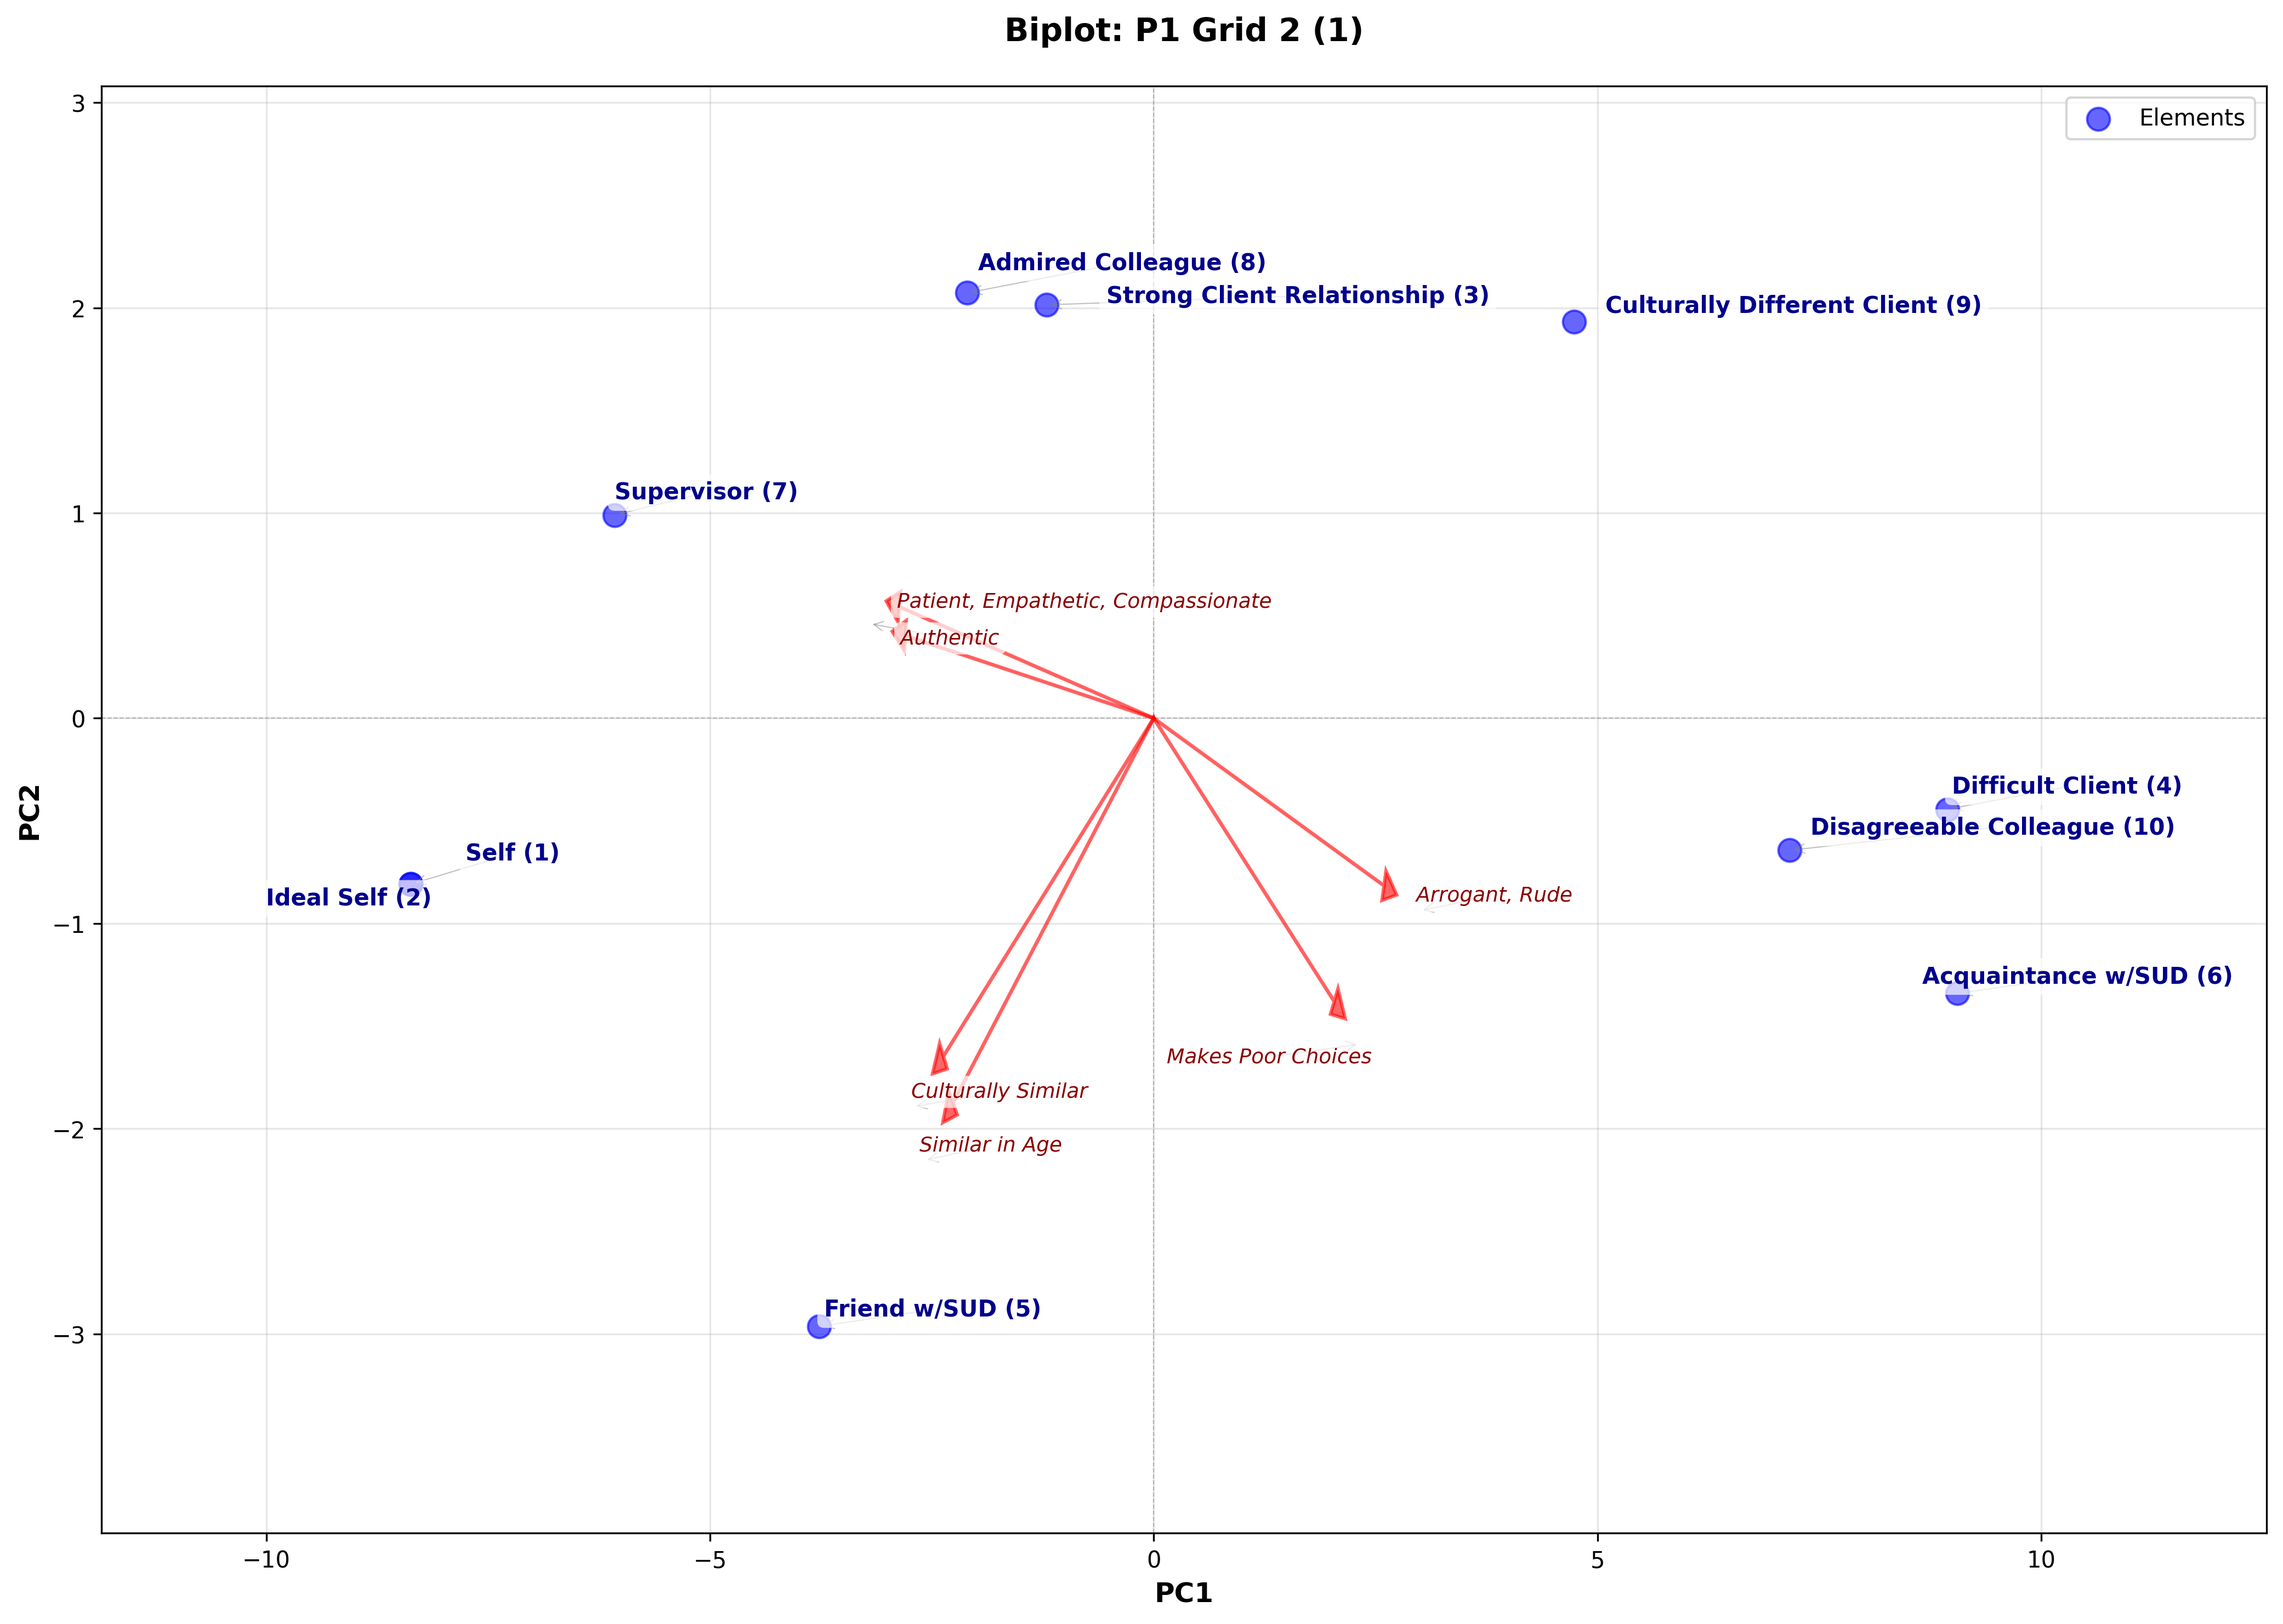
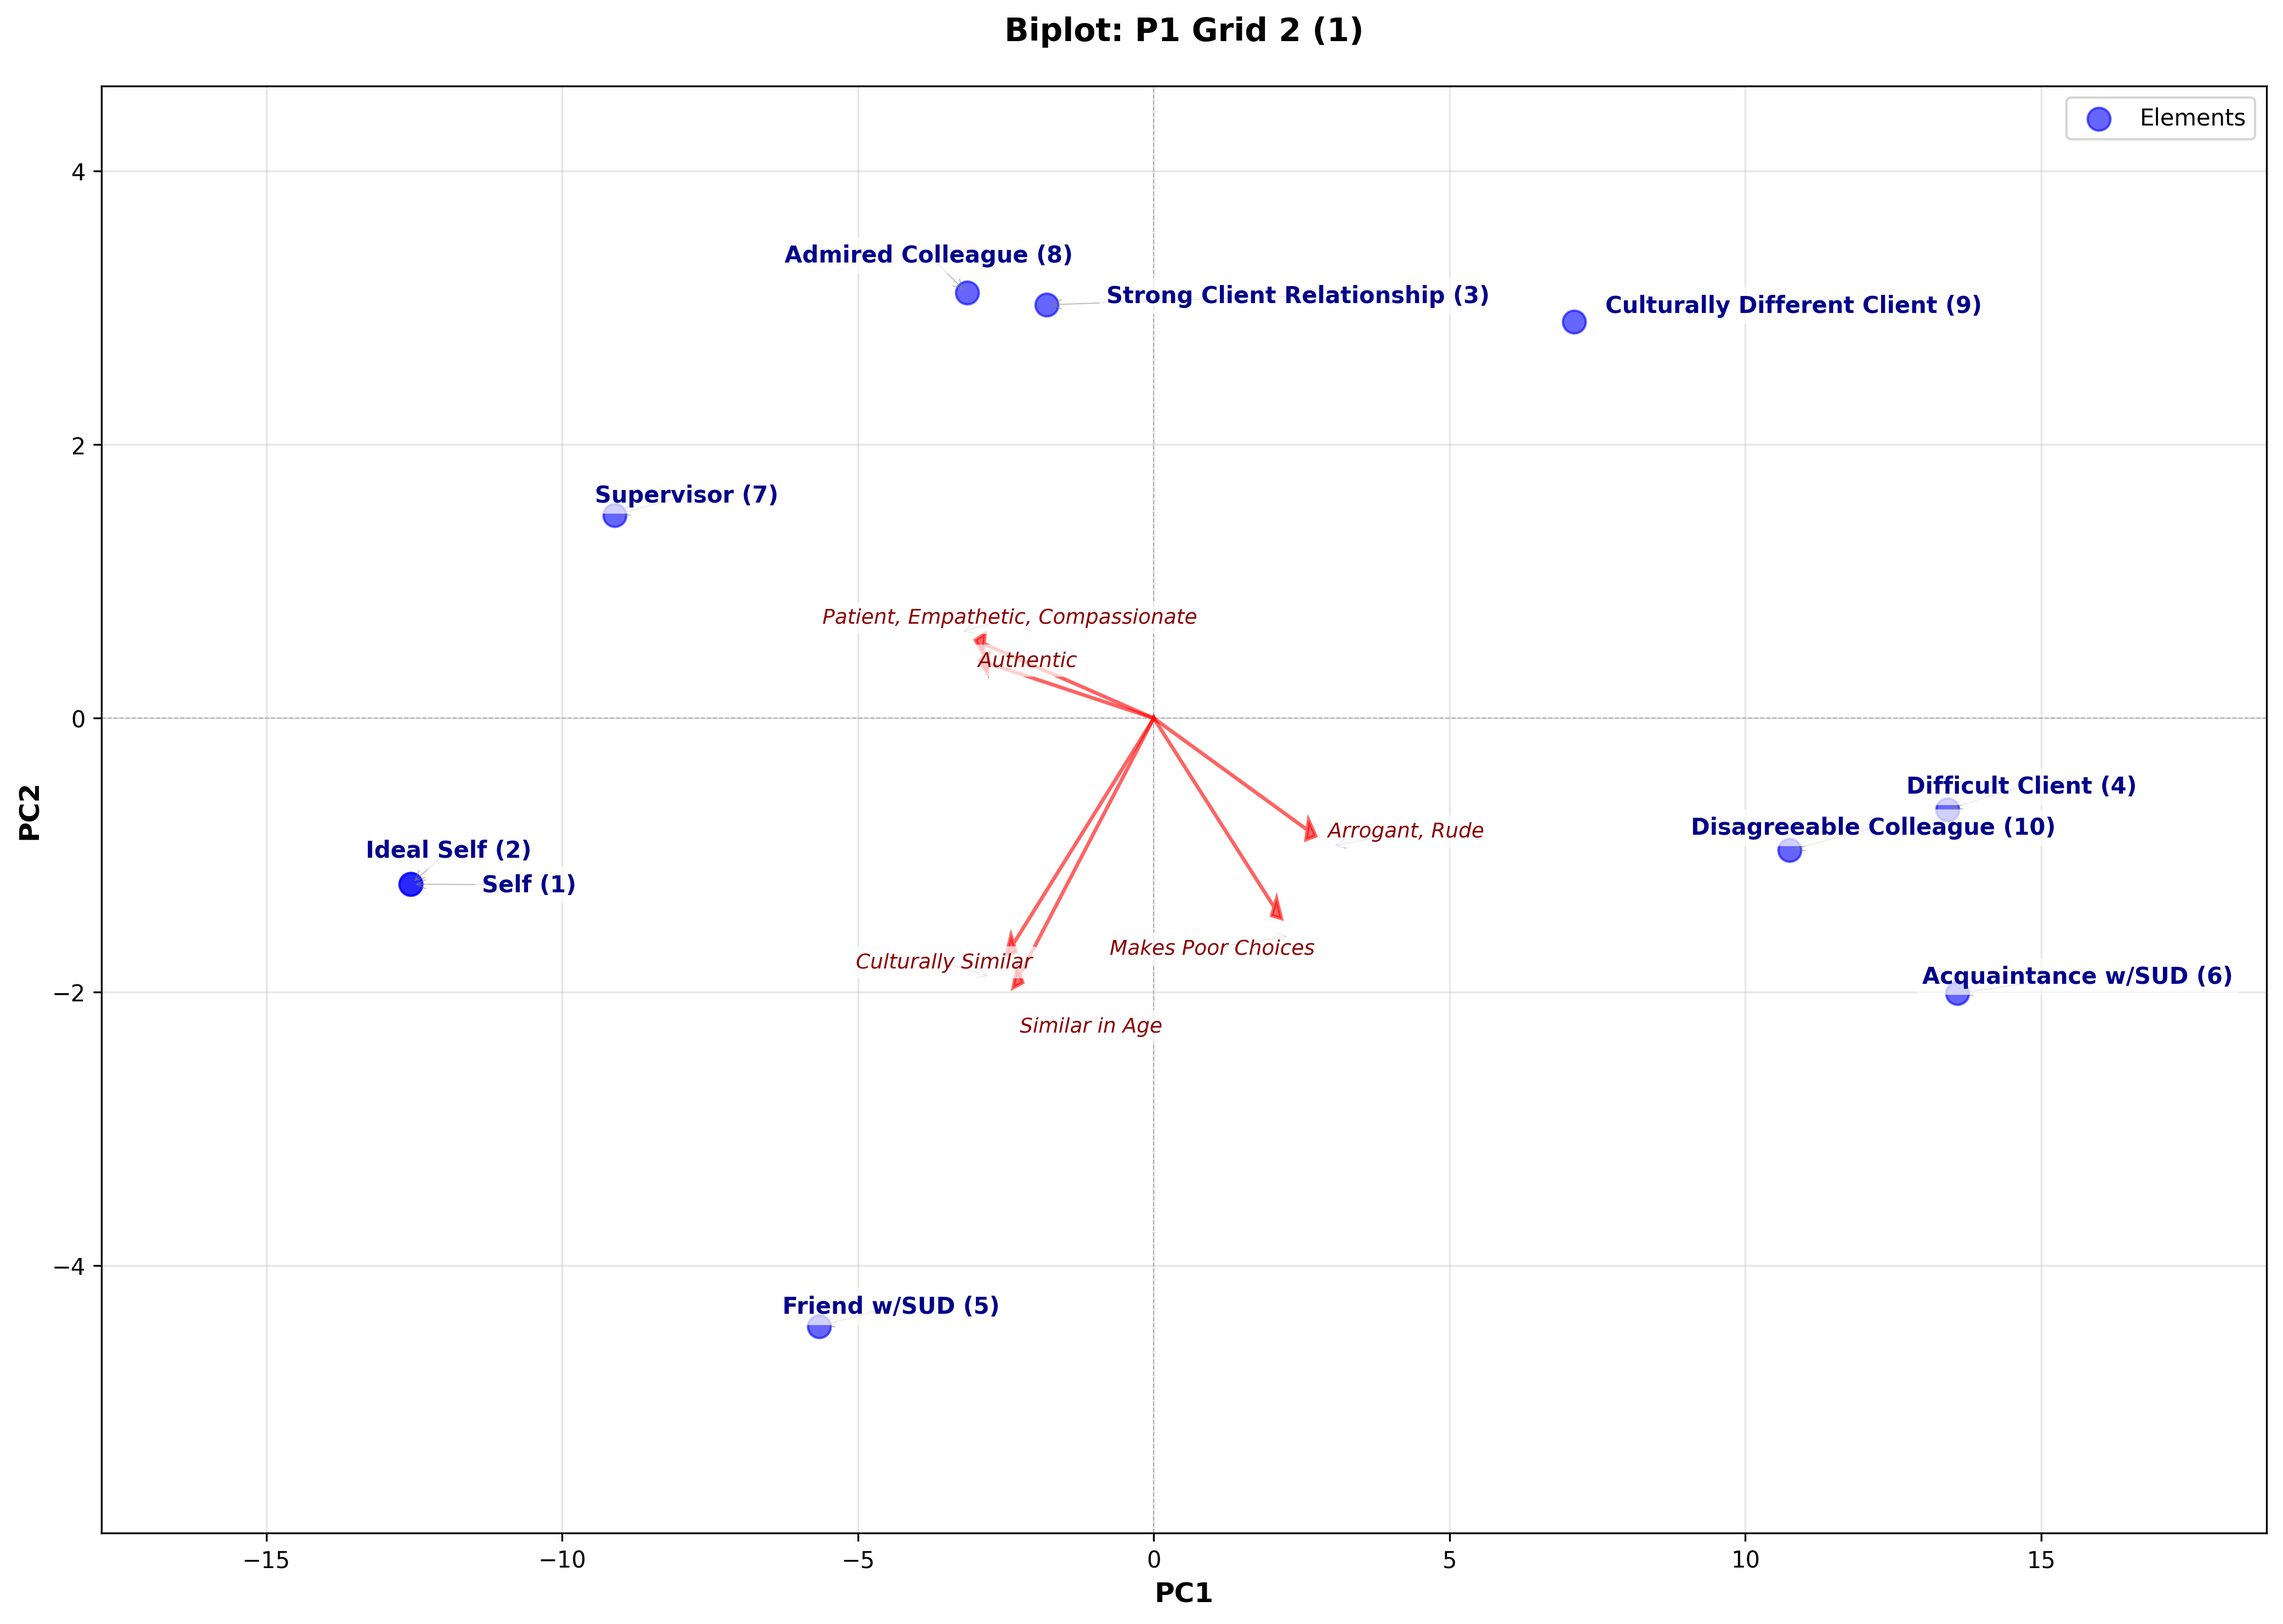
Add updated P2 Grid files and scale P1 Grid 2 element scores
- Added P2 Grid 1 (1).csv with complete PC2 loadings
- Added P2 Grid 2 (2).csv with complete PC2 loadings
- Generated biplots for new P2 files with all constructs showing
- Added element score scaling parameter to create_biplot function
- Applied 1.5x scaling to P1 Grid 2 element scores for better visibility
- All biplots now show variance percentages on axis labels

diff --git a/create_biplots.py b/create_biplots.py
@@ -107,10 +107,13 @@ def calculate_element_scores(ratings, pc1_loadings, pc2_loadings):
 
     return scores
 
-def create_biplot(data, title, output_path):
+def create_biplot(data, title, output_path, element_scale=1.0):
     """
     Create a biplot with element scores and construct loadings.
     Vectors are flipped (multiplied by -1) and labels are adjusted to avoid overlap.
+
+    Args:
+        element_scale: Scaling factor for element scores (default 1.0)
     """
     # Calculate element scores
     scores = calculate_element_scores(
@@ -118,6 +121,9 @@ def create_biplot(data, title, output_path):
         data['pc1_loadings'],
         data['pc2_loadings']
     )
+
+    # Scale element scores if requested
+    scores = scores * element_scale
 
     # Flip the loadings by -1
     pc1_loadings_flipped = -1 * data['pc1_loadings']
@@ -254,8 +260,11 @@ def main():
             # Output path
             output_path = os.path.join(output_dir, filename.replace('.csv', '_biplot.png'))
 
+            # Apply scaling for P1 Grid 2 element scores
+            element_scale = 1.5 if 'P1 Grid 2' in filename else 1.0
+
             # Create biplot
-            fig = create_biplot(data, f"Biplot: {title}", output_path)
+            fig = create_biplot(data, f"Biplot: {title}", output_path, element_scale=element_scale)
             plt.close(fig)
 
             print(f"  ✓ Successfully created biplot")
